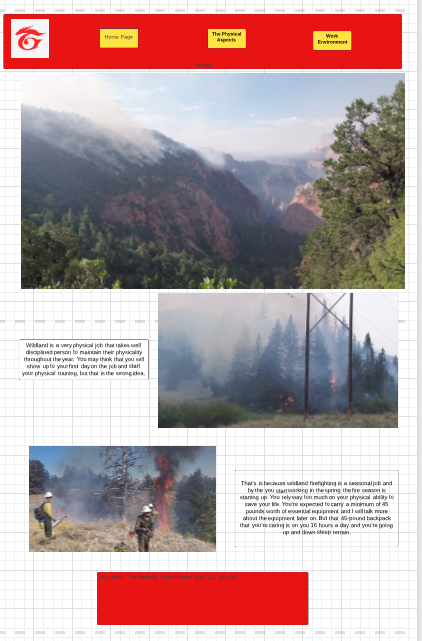
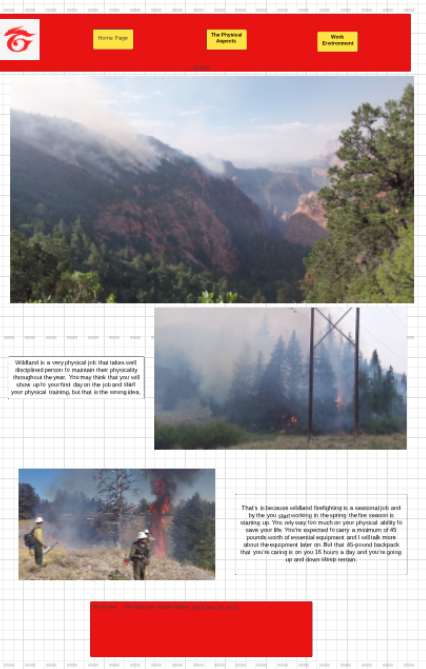
week13

diff --git a/wildlandfire/physical_aspects.html b/wildlandfire/physical_aspects.html
@@ -31,14 +31,21 @@
                     
                 </section>
             </div>
-            <main class="nesstled">
+            <main class="pag_2">
                 <section class="power_line">
-                    <h5>Wildland is a very physical job that takes well disciplined person to maintain their physicality throughout the year. You may think that you will show up to your first day on the job and start your physical training, but that is the wrong idea. </h5>
-                    <img class="card-img" src="images/100_0253.JPG" alt="power line">                    
+                    <img class="card-img" src="images/100_0253.JPG" alt="power line">  
+                </section> 
+                <section class="power_line-msg">                                 
+                    <p>Wildland is a very physical job that takes well disciplined person to maintain their physicality throughout the year. You may think that you will show up to your first day on the job and start your physical training, but that is the wrong idea. </p>
+                
                 </section>
-                <section class="tree">                    
-                    <img class="card-img" src="images/100_0176.JPG" alt="tree on fire">                    
-                    <h5>That’s is because wildland firefighting is a seasonal job and by the you start working in the spring the fire season is starting up. You rely way too much on your physical ability to save your life. You’re expected to carry a minimum of 45 pounds worth of essential equipment and I will talk more about the equipment later on. But that 45-pound backpack that you’re caring is on you 16 hours a day and you’re going up and down steep terrain. </h5>
+                <section class="tree">   
+                                  
+                    <img class="card-img" src="images/100_0176.JPG" alt="tree on fire"> 
+                </section>    
+                <section class="tree-msg"> 
+                    <p>That’s is because wildland firefighting is a seasonal job and by the you start working in the spring the fire season is starting up. You rely way too much on your physical ability to save your life. You’re expected to carry a minimum of 45 pounds worth of essential equipment and I will talk more about the equipment later on. But that 45-pound backpack that you’re caring is on you 16 hours a day and you’re going up and down steep terrain. </p>                                  
+                
                 </section>
                             
             </main>

diff --git a/wildlandfire/work_environment.html b/wildlandfire/work_environment.html
@@ -31,15 +31,17 @@
                     
                 </section>
             </div>
-            <main class="nesstled">
-                               
-                
+            <main class="page_3">
                 <section class="two_men">          
-                    <img class="card-img" src="images/page3.JPG" alt="friends">           
-                                    
-                    <h5>You will meet a lot of people and some of them will become good friends maybe even best friends. But sometimes you will find somebody you don’t like. That’s when you’ll learn a life lesson how to work with people you don’t get along with. Because you’re going to be in close quarters with your crew and that depends on what type of crew, you’re on. </h5>
-                    <img class="card-img" src="images/100_0111.JPG" alt="two men">
+                    <img class="page_3-img" src="images/page3.JPG" alt="friends">           
                 </section>
+                <section class="two_friends">                                 
+                    <img class="page_3-img" src="images/100_0111.JPG" alt="two men">
+                    
+                </section>
+                <section class="two_friends-msg">
+                        <p>You will meet a lot of people and some of them will become good friends maybe even best friends. But sometimes you will find somebody you don’t like. That’s when you’ll learn a life lesson how to work with people you don’t get along with. Because you’re going to be in close quarters with your crew and that depends on what type of crew, you’re on. </p>
+                </section> 
                             
             </main>
         <footer>

diff --git a/wildlandfire/styles/style.css b/wildlandfire/styles/style.css
@@ -131,7 +131,7 @@ footer a:hover{
 }
 
 .card-img {
-  width: 70%;
+  width: 90%;
   grid-column: center;
 }
 
@@ -238,3 +238,84 @@ footer {
     width: 100%;
   }
 } 
+
+.msg h5  {
+  margin: 0; 
+  font-family: 'Charis SIL', serif;
+  
+}  
+
+.p{
+  margin: 0; 
+  font-family: 'Charis SIL', serif;
+}
+ 
+
+
+.pag_2{
+  
+  display: grid;
+  margin: 0 auto;   
+  gap: 1.5rem;   
+  grid-template-columns: repeat(2, 1fr) ;
+  grid-template-rows: repeat(2,1fr);
+  grid-column:center ;
+}
+
+.power_line-msg{
+  grid-column: 1;
+  grid-row: 1;
+  place-self: center stretch;
+  
+}
+.tree-msg{
+  grid-column: 2;
+  grid-row: 2;
+  place-self: center stretch;
+}
+
+
+.power_line{
+  grid-column: 2;
+  grid-row: 1;  
+ 
+}
+
+
+.tree{
+  grid-column: 1;
+  grid-row: 2;
+}
+
+.page_3{
+  display: grid;
+  grid-template-columns: repeat(2, 1fr) ;
+  grid-template-rows: repeat(2, 1fr);
+  gap: 1.5rem; 
+  grid-column: center;
+  
+
+}
+
+.page_3-img{  
+  max-width: 75%;
+
+}
+
+.two_friends-msg{
+  grid-column: 2;
+  grid-row: 1/3;
+  
+}
+
+.two_men{
+ 
+  grid-column: 1;
+  grid-row: 1;
+}
+
+.two_friends{
+  grid-column:1;
+  grid-row: 2;
+  
+}

diff --git a/wildlandfire/site-plan.html b/wildlandfire/site-plan.html
@@ -32,7 +32,7 @@
       <h2>Branding</h2>
       <h3>Website Logo</h3>
       <!-- Replace this with some sort of logo for your site.  A logo can be as simple as the name of your site in a nice font :) -->
-      <img src="#" alt="Logo image">
+      <img src="images/free_fire.png" alt="Logo image">
       <hr>
       <h2>
         Style Guide
